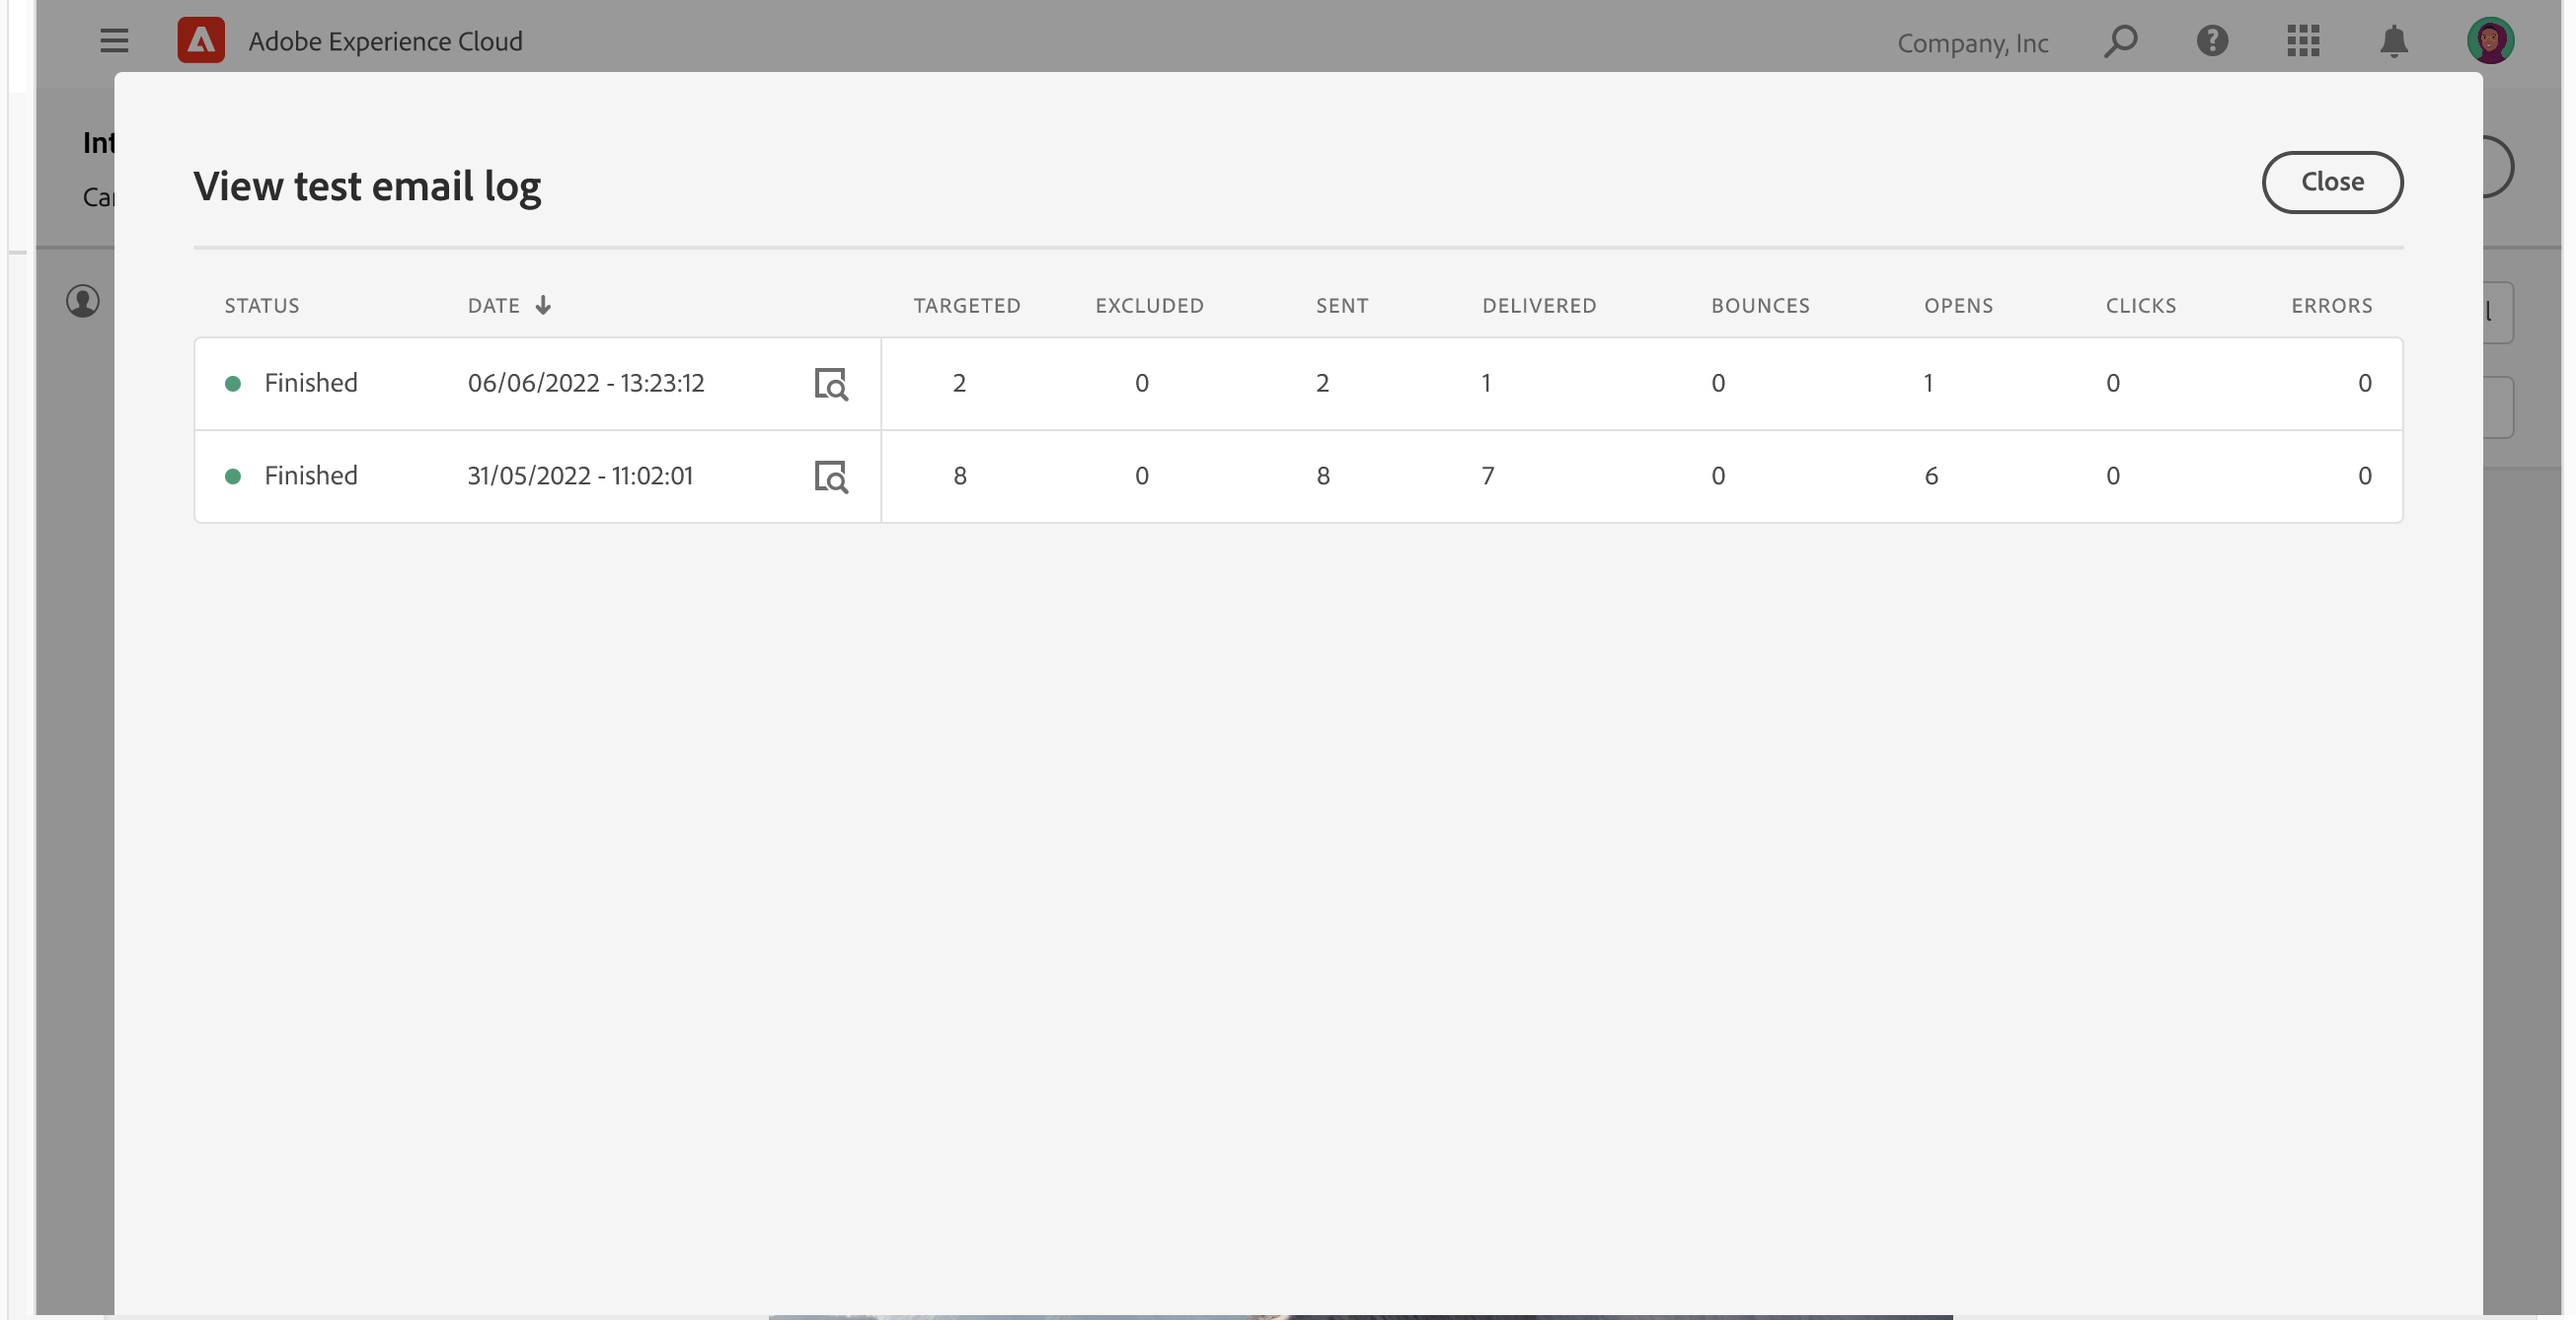
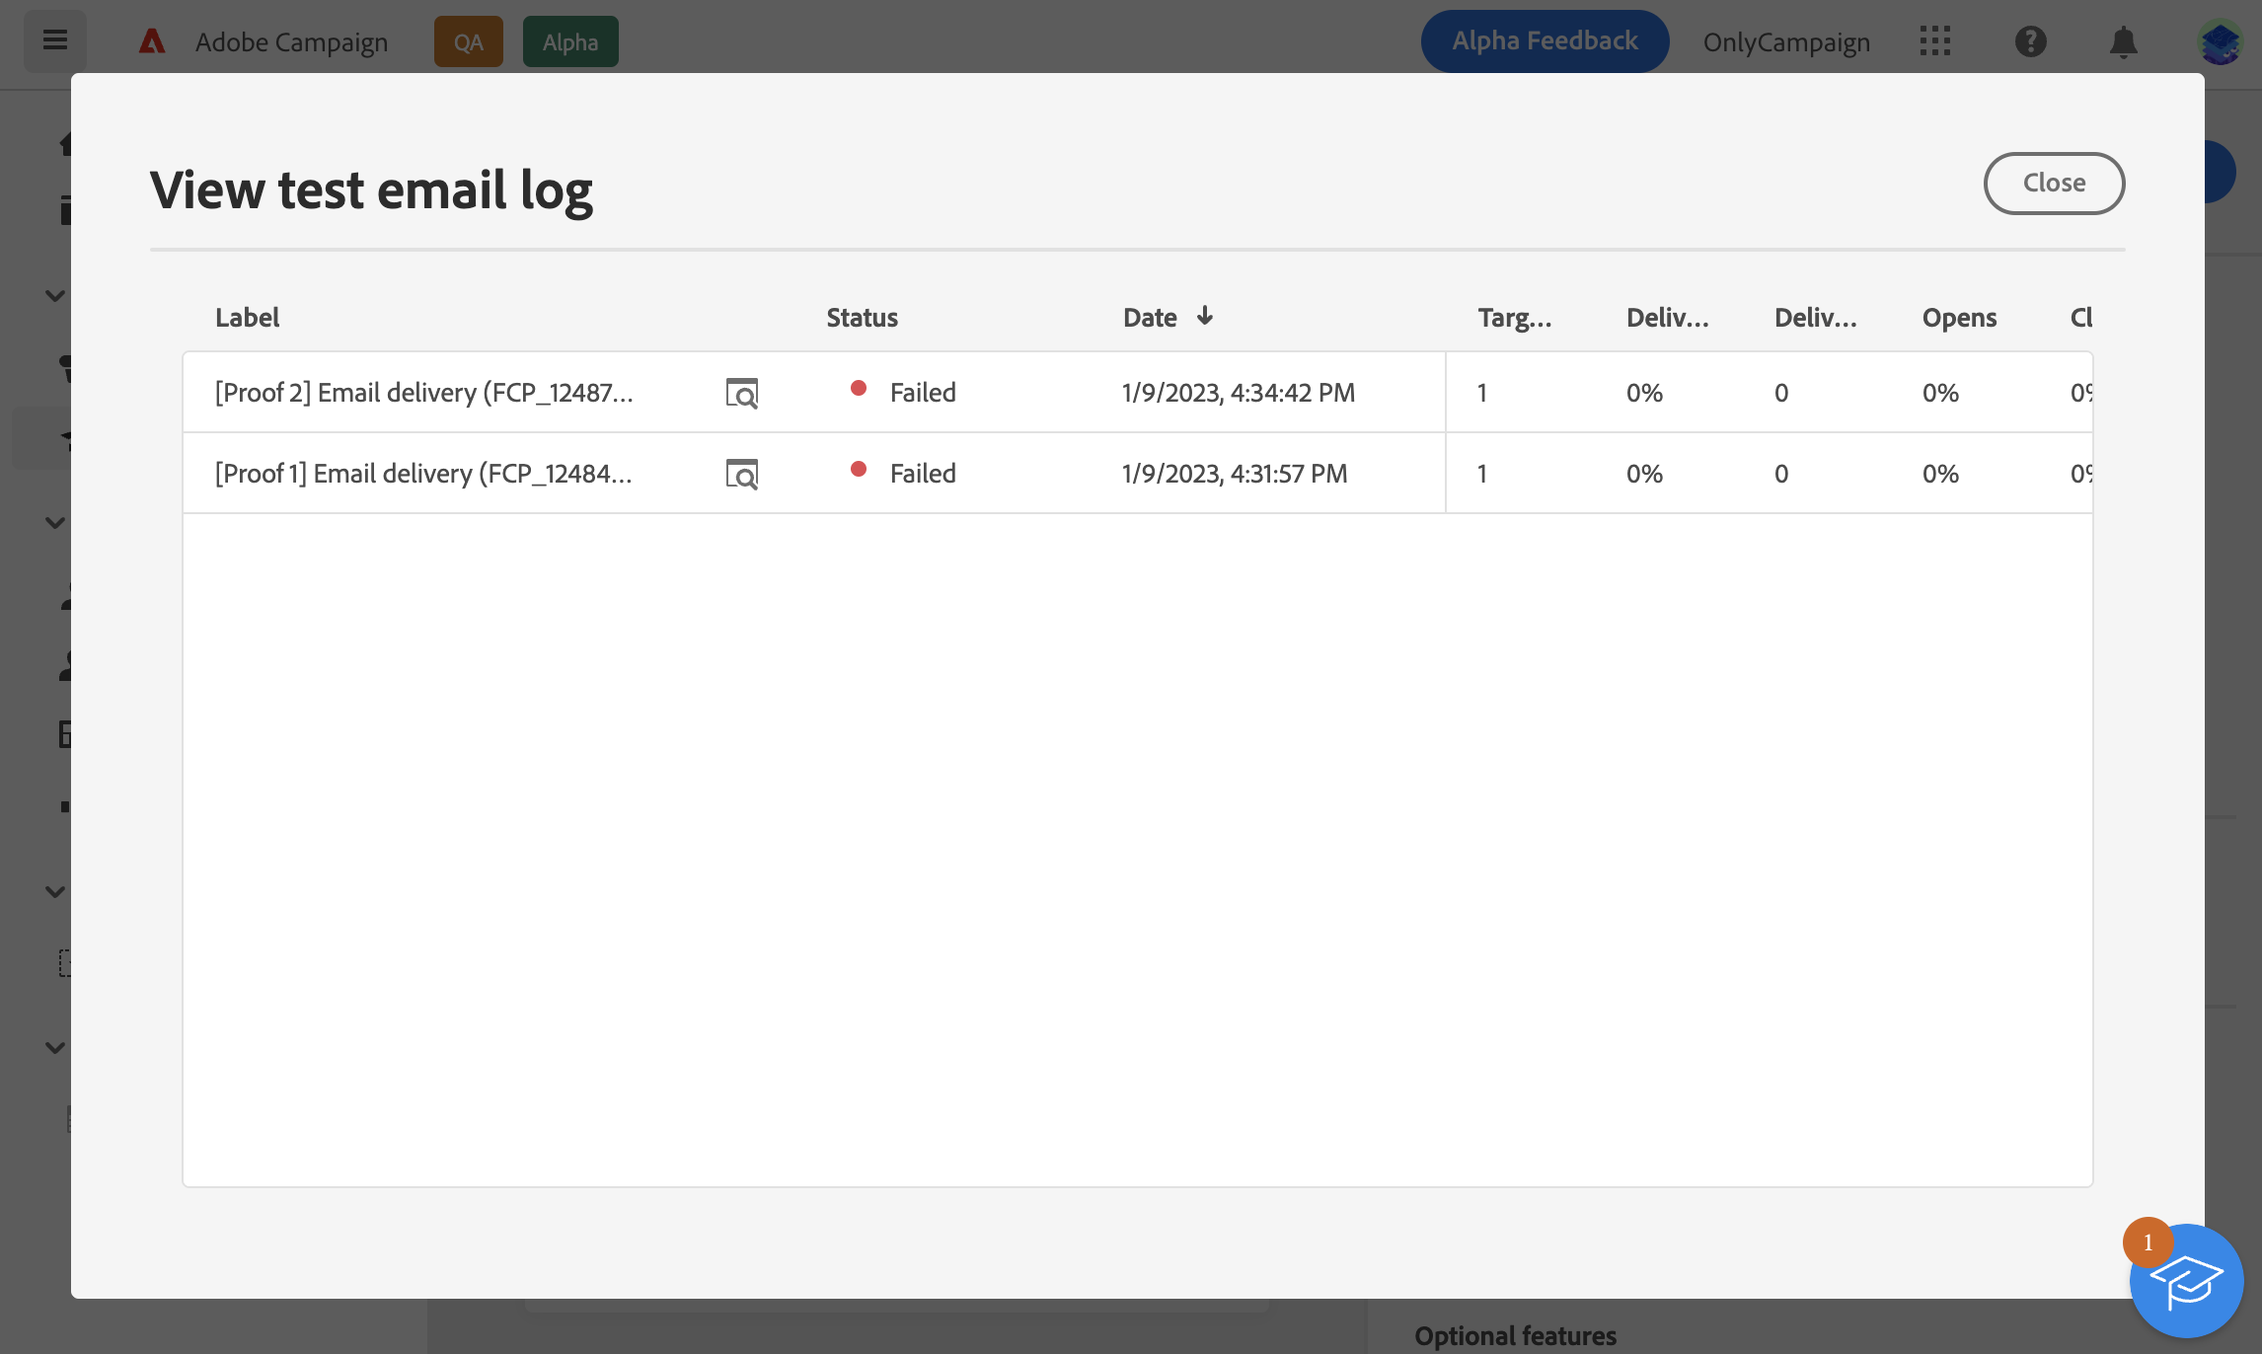
preview proof review

diff --git a/help/v8/preview-test/proofs.md b/help/v8/preview-test/proofs.md
@@ -10,12 +10,11 @@ exl-id: b2677579-c95d-443d-b207-466af364c208
 >
 >This documentation is under construction and frequently updated. The final version of this content will be ready in January 2023.
 
-Sending proofs allows you to validate your email and check various elements like links, opt-out links and mirror pages, images and detect possible errors.
+Sending test emails allows you to validate your email and check various elements like links, opt-out links and mirror pages, images and detect possible errors.
 
 Proofs can be sent to two types of recipients:
 
-* **Test profiles / audiences**: send proofs to seed addresses, which are additional recipients in the database that are not part of the email target,
-
+* **Test profiles**: send proofs to seed addresses, which are additional and fictitious recipients in the database,
 * **Substitution profiles**: send proofs to a specific email address using an existing profile. This allows you to place yourself in the position of the profiles and get an exact representation of the message that the profile will receive.
 
 ## Select the proofs recipients {#recipients}
@@ -32,7 +31,7 @@ Proofs can be sent to two types of recipients:
 
 1. Add the test profiles that will receive the test emails.
 
-    You can also build an audience to select test profiles based on your own criteria using the **[!UICONTROL Add test audience]** button.
+    <!--FOR BETA: You can also build an audience to select test profiles based on your own criteria using the **[!UICONTROL Add test audience]** button.-->
 
     ![](assets/test-profiles-audience.png)
 
@@ -62,8 +61,14 @@ To send the proofs to the selected recipients, click **[!UICONTROL Send test ema
 
 ![](assets/send-proof.png)
 
-Once the proofs have been sent, you can access dedicated logs from the **[!UICONTROL View test email log]** button. These logs allow you to access the sent proofs, and specific statistics related to the proof sending.
+Send as many proofs as necessary until you have finalized the content of your delivery. Once this is done, you can send the email to the main target. [Learn how to prepare and send your email](../monitor/prepare-send.md)
+
+## Access sent proofs {#access-proofs}
+
+Once the proofs have been sent, you can access dedicated logs from the **[!UICONTROL View test email log]** button. These logs allow you to access all the proofs sent for the selected delivery, and to visualize specific statistics related to their sending.
 
 ![](assets/proof-log.png)
 
-Send as many proofs as necessary until you have finalized the content of your delivery. Once this is done, you can send the email to the main target. [Learn how to prepare and send your email](../monitor/prepare-send.md)
+You can also access proofs from the deliveries list, like any delivery.
+
+![](assets/delivery-list.png)

diff --git a/help/v8/preview-test/preview-content.md b/help/v8/preview-test/preview-content.md
@@ -14,7 +14,7 @@ Adobe Campaign allows you to use profiles to preview the content of your email b
 
 Messages can be previewed using:
 
-* **Test profiles**: preview the email using seed addresses, which are additional recipients in the database that are not part of the email target,
+* **Test profiles**: preview the email using seed addresses, which are additional and fictitious recipients in the database,
 * **Profiles**: preview the email using an existing profile.
 
 To preview the content of your email, follow these steps:
@@ -30,5 +30,7 @@ To preview the content of your email, follow these steps:
 1. Once profiles have been selected, a preview of the email displays in the right pane. Personalized elements are replaced by the data from the profile selected in the left pane.
 
     If you have added multiple profiles, you can switch between each of them in the list to preview the corresponding email.
+
+    You can also preview the rendering of your content on different devices (desktop, mobile, tablet...).
 
     ![](assets/preview.png)

diff --git a/help/v8/preview-test/preview-test.md b/help/v8/preview-test/preview-test.md
@@ -14,10 +14,14 @@ Once the email content has been defined, you can check how it will display befor
 
 To do this, Adobe Campaign allows you to:
 
-* [Preview the email content and personalization](#preview) using profile data,
+* [Preview the email content and personalization](#preview),
 <!--* [Check the email rendering](#rendering) in popular desktop, mobile and web-based clients,-->
 * [Send proofs](#send-proofs) to specific recipients in order to test and validate the email.
 
 These actions are performed from the **[!UICONTROL Simulate content]** button which is accessible when creating the content of your email of from the Email Designer:
 
 ![](assets/simulate.png)
+
+>[!NOTE]
+>
+>Content simulation is also available from the delivery summary page after clicking the **[!UICONTROL Review and send]** button.
